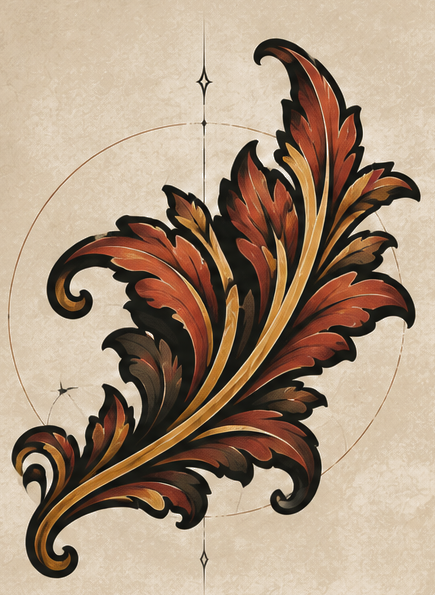
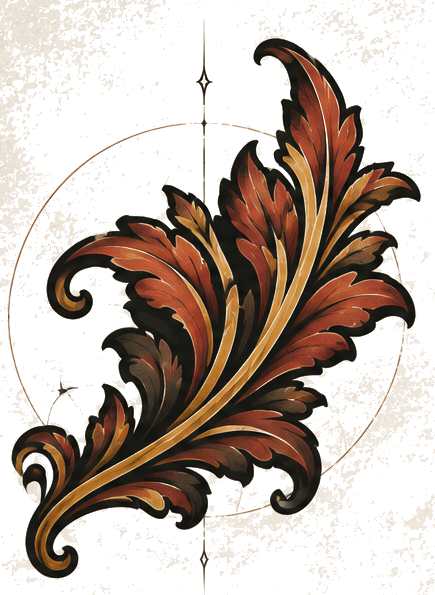
des2

diff --git a/src/index.css b/src/index.css
@@ -190,116 +190,73 @@
 }
 
 /* =========================================================
-   IDENTIDADE VISUAL TRILHA — Acanto / Carvão / Cobre / Ouro
+   IDENTIDADE TRILHA — redesign editorial / heráldico
    ========================================================= */
-@layer base {
-  :root {
-    --trilha-charcoal: #1a1a18;
-    --trilha-black: #11110f;
-    --trilha-copper: #9b3d27;
-    --trilha-copper-dark: #6f291d;
-    --trilha-gold: #d29a35;
-    --trilha-gold-soft: #e1b65f;
-    --trilha-parchment: #ead9b7;
-    --trilha-parchment-dark: #cdb78e;
-    --trilha-earth: #4b3626;
-  }
-
-  body {
-    background:
-      radial-gradient(circle at 18% 12%, rgba(210,154,53,.08), transparent 26rem),
-      radial-gradient(circle at 85% 75%, rgba(155,61,39,.07), transparent 30rem),
-      linear-gradient(135deg, #11110f 0%, #1a1713 45%, #0e0e0d 100%);
-  }
-
-  ::selection { background: rgba(210,154,53,.35); color: #fff7e8; }
+:root{
+  --trilha-ink:#1d1b17; --trilha-ink-soft:#302a23; --trilha-copper:#963c29;
+  --trilha-copper-dark:#6f2b20; --trilha-gold:#c9912f; --trilha-gold-soft:#dfb45d;
+  --trilha-paper:#efe0bd; --trilha-paper-light:#f7ecd3; --trilha-paper-deep:#ddc797;
+  --trilha-brown:#5a4430;
 }
-
-@layer utilities {
-  .bg-gradient-fantasy {
-    background:
-      radial-gradient(circle at 50% -10%, rgba(210,154,53,.11), transparent 34rem),
-      radial-gradient(circle at 100% 100%, rgba(155,61,39,.10), transparent 30rem),
-      linear-gradient(145deg, #10100f 0%, #1c1814 48%, #10100f 100%);
-  }
-
-  .bg-gradient-card {
-    background: linear-gradient(155deg, rgba(38,32,25,.94), rgba(18,17,15,.97));
-    position: relative;
-  }
-
-  .bg-gradient-card::before {
-    content: '';
-    position: absolute;
-    inset: 0;
-    pointer-events: none;
-    border-radius: inherit;
-    background: linear-gradient(115deg, rgba(234,217,183,.035), transparent 28%, rgba(210,154,53,.025));
-  }
-
-  .bg-gradient-gold {
-    background: linear-gradient(135deg, #8f351f 0%, #b44d2d 48%, #8f351f 100%);
-    border: 1px solid #d29a35;
-    color: #fff2d8;
-  }
-
-  .bg-gradient-blood,
-  .bg-blood { background: linear-gradient(135deg, #9b3d27, #6f291d); }
-  .bg-blood-dark { background-color: #6f291d; }
-
-  .text-gold { color: #d29a35; }
-  .text-gold-bright { color: #e1b65f; }
-  .text-blood { color: #c35a38; }
-  .border-gold { border-color: #d29a35; }
-  .border-gold-dim { border-color: rgba(210,154,53,.34); }
-  .border-blood { border-color: #9b3d27; }
-
-  .divider-gold {
-    height: 1px;
-    background: linear-gradient(90deg, transparent, #9b3d27 18%, #d29a35 50%, #9b3d27 82%, transparent);
-    position: relative;
-  }
-  .divider-gold::after {
-    content: '◆';
-    position: absolute;
-    left: 50%; top: 50%; transform: translate(-50%,-52%);
-    color: #d29a35; font-size: 8px; background: #1a1713; padding: 0 6px;
-  }
-
-  .shadow-gold { box-shadow: 0 0 0 1px rgba(155,61,39,.16), 0 0 22px rgba(210,154,53,.10), 0 8px 22px rgba(0,0,0,.38); }
-  .shadow-gold-lg { box-shadow: 0 0 0 1px rgba(155,61,39,.20), 0 0 42px rgba(210,154,53,.12), 0 16px 38px rgba(0,0,0,.5); }
-  .text-shadow-gold { text-shadow: 0 0 18px rgba(210,154,53,.25), 0 2px 3px rgba(0,0,0,.7); }
-
-  .trilha-brand { filter: drop-shadow(0 10px 18px rgba(0,0,0,.35)); }
-  .trilha-emblem {
-    width: 154px; height: 170px; object-fit: contain;
-    object-position: center;
-    margin-bottom: -22px;
-    filter: saturate(.95) contrast(1.08) drop-shadow(0 4px 7px rgba(0,0,0,.55));
-  }
-  .trilha-wordmark {
-    color: #e1b65f;
-    font-size: clamp(2rem, 7vw, 3rem);
-    font-weight: 700;
-    letter-spacing: .16em;
-    line-height: 1;
-    text-shadow: 0 2px 0 #6f291d, 0 5px 12px rgba(0,0,0,.55);
-  }
-  .trilha-motto {
-    margin-top: .55rem;
-    color: rgba(234,217,183,.64);
-    font-family: 'Cinzel', serif;
-    font-size: .64rem;
-    letter-spacing: .14em;
-    text-transform: uppercase;
-  }
-
-  /* Acanto sutil em painéis importantes sem sobrecarregar a interface */
-  .border-gold-dim.rounded-xl,
-  .border-gold-dim.rounded-2xl {
-    box-shadow: inset 0 0 0 1px rgba(155,61,39,.08), 0 10px 28px rgba(0,0,0,.18);
-  }
-
-  button, a { transition: border-color .2s ease, color .2s ease, background-color .2s ease, filter .2s ease, transform .2s ease; }
-  button:not(:disabled):active { transform: translateY(1px); }
+html{background:var(--trilha-paper)}
+body{background:var(--trilha-paper);color:var(--trilha-ink);min-height:100vh}
+.bg-gradient-fantasy{
+  background-color:var(--trilha-paper)!important;
+  background-image:
+    radial-gradient(circle at 12% 8%,rgba(201,145,47,.10),transparent 25%),
+    radial-gradient(circle at 88% 80%,rgba(150,60,41,.08),transparent 28%),
+    repeating-linear-gradient(0deg,rgba(75,53,32,.018) 0,rgba(75,53,32,.018) 1px,transparent 1px,transparent 4px)!important;
 }
+.bg-gradient-card,.bg-shadow\/40,.bg-shadow\/50,.bg-shadow\/60,.bg-shadow\/70,.bg-stone,.bg-stone-light{background:rgba(247,236,211,.78)!important}
+.text-parchment,.text-parchment-dim{color:var(--trilha-brown)!important}.text-parchment-dim\/60,.text-parchment-dim\/70,.text-parchment-dim\/40{color:rgba(90,68,48,.68)!important}
+.text-gold,.text-gold-bright{color:var(--trilha-copper)!important}.text-blood{color:#8a2921!important}
+.border-gold,.border-gold-dim,.border-gold-dim\/60{border-color:rgba(111,74,34,.38)!important}
+.bg-gold\/15{background:rgba(150,60,41,.12)!important}.bg-gradient-gold{background:linear-gradient(135deg,var(--trilha-copper-dark),var(--trilha-copper))!important;color:#fff4da!important}
+.shadow-gold,.shadow-gold-lg{box-shadow:0 14px 35px rgba(64,42,22,.14),0 2px 0 rgba(255,255,255,.35) inset!important}
+.divider-gold{background:linear-gradient(90deg,transparent,var(--trilha-copper),var(--trilha-gold),var(--trilha-copper),transparent)!important}
+
+/* Shared page chrome */
+.bg-gradient-fantasy > header, header.bg-shadow\/70{
+  background:linear-gradient(90deg,#181714,#29231d 48%,#181714)!important;
+  border-bottom:2px solid var(--trilha-gold)!important; color:var(--trilha-paper)!important;
+  box-shadow:0 5px 18px rgba(31,23,14,.22);
+}
+.bg-gradient-fantasy > header .text-gold-bright,header.bg-shadow\/70 .text-gold-bright{color:var(--trilha-gold-soft)!important}
+.bg-gradient-fantasy > header .text-parchment-dim,header.bg-shadow\/70 .text-parchment-dim{color:#cdbb98!important}
+main nav button,.bg-gradient-fantasy nav button{background:rgba(247,236,211,.72);border:1px solid rgba(89,60,31,.35);color:var(--trilha-copper)!important;box-shadow:0 2px 8px rgba(60,40,20,.06)}
+main nav button:hover,.bg-gradient-fantasy nav button:hover{background:#fff4dc;border-color:var(--trilha-copper)!important}
+
+/* Convert app cards into manuscript panels */
+.rounded-xl.border,.rounded-lg.border,.rounded-2xl.border{
+  border-radius:4px!important;
+  box-shadow:0 8px 20px rgba(68,45,24,.07), inset 0 0 0 1px rgba(255,255,255,.38);
+}
+.rounded-xl.border{position:relative}
+.rounded-xl.border::before{content:"";position:absolute;left:-1px;top:-1px;width:34px;height:34px;border-left:3px solid var(--trilha-copper);border-top:3px solid var(--trilha-copper);pointer-events:none}
+input,textarea,select{background:rgba(255,249,233,.72)!important;color:var(--trilha-ink)!important;border-color:rgba(91,61,32,.35)!important;border-radius:3px!important}
+input::placeholder,textarea::placeholder{color:rgba(75,56,38,.42)!important}input:focus,textarea:focus,select:focus{border-color:var(--trilha-copper)!important;box-shadow:0 0 0 2px rgba(150,60,41,.1)!important}
+button.bg-gradient-gold{border:1px solid #64261b!important;box-shadow:inset 0 1px rgba(255,230,185,.3),0 4px 10px rgba(88,38,26,.18)!important}
+
+/* LOGIN — intentionally distinct composition, like a book cover + title page */
+.trilha-login{position:relative;overflow:hidden;background:
+  radial-gradient(circle at 24% 34%,rgba(201,145,47,.14),transparent 28%),
+  linear-gradient(110deg,#ead8ae 0%,#f7ecd3 49.8%,#e7d3a7 50%,#f3e4c3 100%);color:var(--trilha-ink);display:flex;align-items:center;justify-content:center;padding:clamp(20px,4vw,56px)}
+.trilha-login::before{content:"";position:absolute;inset:18px;border:1px solid rgba(88,58,28,.32);box-shadow:inset 0 0 0 5px rgba(247,236,211,.5),inset 0 0 0 6px rgba(88,58,28,.12);pointer-events:none}
+.trilha-login::after{content:"";position:absolute;inset:0;opacity:.23;pointer-events:none;background-image:repeating-linear-gradient(0deg,rgba(75,53,32,.035) 0,rgba(75,53,32,.035) 1px,transparent 1px,transparent 4px)}
+.trilha-login-layout{position:relative;z-index:2;width:min(1080px,100%);min-height:640px;display:grid;grid-template-columns:1.05fr .95fr;border:1px solid rgba(84,54,25,.28);background:rgba(248,237,211,.62);box-shadow:0 30px 70px rgba(67,43,20,.18)}
+.trilha-brand-panel{position:relative;padding:54px 48px;display:flex;align-items:center;justify-content:center;border-right:1px solid rgba(91,60,30,.24);overflow:hidden}
+.trilha-brand-panel::after{content:"";position:absolute;inset:20px;border:1px solid rgba(150,60,41,.14);pointer-events:none}
+.trilha-brand-mark{position:absolute;left:-25px;bottom:-10px;width:78%;opacity:.96;transform:rotate(-5deg);filter:drop-shadow(0 12px 12px rgba(49,29,13,.12))}
+.trilha-brand-mark img{width:100%;height:auto;display:block}
+.trilha-brand-copy{position:relative;z-index:2;text-align:center;margin-left:25%;margin-top:-34%;text-shadow:0 1px rgba(255,255,255,.45)}
+.trilha-kicker{font-family:'Cinzel',serif;text-transform:uppercase;letter-spacing:.28em;font-size:11px;color:var(--trilha-copper);font-weight:700}
+.trilha-brand-copy h1{font-family:'Cinzel',serif;font-size:clamp(46px,6vw,76px);line-height:.95;letter-spacing:.08em;color:var(--trilha-ink);font-weight:600;margin:12px 0}
+.trilha-rule{height:18px;display:flex;align-items:center;gap:10px;color:var(--trilha-gold)}.trilha-rule::before,.trilha-rule::after{content:"";height:1px;flex:1;background:linear-gradient(90deg,transparent,var(--trilha-copper))}.trilha-rule::after{background:linear-gradient(90deg,var(--trilha-copper),transparent)}.trilha-rule span{font-size:10px}
+.trilha-expansion{font-family:'Cinzel',serif;font-size:11px;line-height:1.8;letter-spacing:.11em;color:#674a32;margin-top:9px}
+.trilha-brand-copy blockquote{font-family:Georgia,serif;font-style:italic;color:#78563a;font-size:14px;margin-top:30px}
+.trilha-access-panel{display:flex;align-items:center;padding:60px 56px;background:linear-gradient(145deg,rgba(255,249,234,.64),rgba(231,210,167,.38))}
+.trilha-access-inner{width:100%;max-width:390px;margin:auto}.trilha-access-inner h2{font-family:'Cinzel',serif;font-size:34px;color:var(--trilha-ink);font-weight:500;margin:8px 0 14px}.trilha-access-intro{color:#70573f;line-height:1.7;font-size:14px;margin-bottom:34px}
+.trilha-form label{display:block;font-family:'Cinzel',serif;color:var(--trilha-copper);font-size:11px;letter-spacing:.18em;text-transform:uppercase;margin-bottom:8px}.trilha-input-wrap{display:flex;align-items:center;background:rgba(255,250,238,.75);border:1px solid #9e7c50;border-bottom:2px solid var(--trilha-copper);padding:0 13px;transition:.2s}.trilha-input-wrap:focus-within{box-shadow:0 0 0 3px rgba(150,60,41,.09);background:#fff9ea}.trilha-input-wrap.is-error{border-color:#8a2921}.trilha-input-flourish{color:var(--trilha-gold);font-size:20px;margin-right:9px}.trilha-input-wrap input{border:0!important;box-shadow:none!important;background:transparent!important;width:100%;padding:14px 0;font-size:15px}
+.trilha-error{display:flex;gap:7px;align-items:center;color:#8a2921;font-size:13px;margin-top:10px}.trilha-primary-button{width:100%;margin-top:20px;padding:14px 18px;background:linear-gradient(135deg,#6f2b20,#9a3d29);border:1px solid #512016;color:#fff0d3;font-family:'Cinzel',serif;letter-spacing:.09em;text-transform:uppercase;font-size:13px;display:flex;justify-content:center;align-items:center;gap:12px;box-shadow:inset 0 1px rgba(255,220,165,.28),0 5px 12px rgba(76,34,22,.17);transition:.2s}.trilha-primary-button:hover:not(:disabled){transform:translateY(-1px);filter:brightness(1.08)}.trilha-primary-button:disabled{opacity:.45}.trilha-primary-button span{color:var(--trilha-gold-soft);font-size:18px}.trilha-access-footer{display:flex;align-items:center;gap:12px;margin-top:34px;color:#8a7358;font-size:10px;text-transform:uppercase;letter-spacing:.12em;text-align:center}.trilha-access-footer span{height:1px;background:rgba(121,86,49,.28);flex:1}
+.trilha-login-ornament{position:absolute;width:340px;height:340px;background:url('/trilha-acanto.png') center/contain no-repeat;opacity:.045;filter:grayscale(1)}.trilha-login-ornament-left{left:-150px;top:-100px;transform:rotate(145deg)}.trilha-login-ornament-right{right:-140px;bottom:-100px;transform:rotate(-35deg)}
+@media(max-width:800px){.trilha-login{padding:16px}.trilha-login::before{inset:8px}.trilha-login-layout{grid-template-columns:1fr;min-height:0}.trilha-brand-panel{min-height:330px;border-right:0;border-bottom:1px solid rgba(91,60,30,.24);padding:35px 25px}.trilha-brand-mark{width:65%;left:-2%;bottom:-15%}.trilha-brand-copy{margin-left:24%;margin-top:-10%}.trilha-brand-copy h1{font-size:48px}.trilha-access-panel{padding:42px 28px}.trilha-brand-copy blockquote{margin-top:18px}}

diff --git a/src/components/LoginScreen.tsx b/src/components/LoginScreen.tsx
@@ -2,136 +2,48 @@ import { useState } from 'react';
 import { Loader2, AlertCircle } from 'lucide-react';
 import { supabase, type Player } from '@/lib/supabase';
 
-type LoginScreenProps = {
-  onLogin: (player: Player) => void;
-};
+type LoginScreenProps = { onLogin: (player: Player) => void };
 
 export default function LoginScreen({ onLogin }: LoginScreenProps) {
   const [alcunha, setAlcunha] = useState('');
   const [loading, setLoading] = useState(false);
   const [error, setError] = useState<string | null>(null);
-
   const handleSubmit = async (e: React.FormEvent) => {
-    e.preventDefault();
-    const trimmed = alcunha.trim();
-    if (!trimmed) {
-      setError('Essa alcunha não é reconhecida.');
-      return;
-    }
-
-    setLoading(true);
-    setError(null);
-
-    try {
-      const { data, error: queryError } = await supabase
-        .from('players')
-        .select('*')
-        .ilike('alcunha', trimmed)
-        .maybeSingle();
-
-      if (queryError) throw queryError;
-
-      if (!data || data.status !== 'ativa') {
-        setError('Essa alcunha não é reconhecida.');
-        return;
-      }
-
-      onLogin(data as Player);
-    } catch {
-      setError('Essa alcunha não é reconhecida.');
-    } finally {
-      setLoading(false);
-    }
+    e.preventDefault(); const trimmed=alcunha.trim();
+    if(!trimmed){setError('Essa alcunha não é reconhecida.');return}
+    setLoading(true);setError(null);
+    try { const {data,error:queryError}=await supabase.from('players').select('*').ilike('alcunha',trimmed).maybeSingle(); if(queryError)throw queryError; if(!data||data.status!=='ativa'){setError('Essa alcunha não é reconhecida.');return} onLogin(data as Player); }
+    catch { setError('Essa alcunha não é reconhecida.'); }
+    finally { setLoading(false); }
   };
-
-  return (
-    <div className="min-h-screen bg-gradient-fantasy flex items-center justify-center p-4 relative overflow-hidden">
-      {/* Ambient decorative elements */}
-      <div className="absolute inset-0 pointer-events-none">
-        <div className="absolute top-0 left-1/2 -translate-x-1/2 w-[600px] h-[600px] rounded-full bg-gold/5 blur-[120px]" />
-        <div className="absolute bottom-0 right-0 w-[400px] h-[400px] rounded-full bg-blood/5 blur-[100px]" />
-      </div>
-
-      <div className="relative w-full max-w-md animate-fade-in-up">
-        {/* Símbolo oficial do TRILHA */}
-        <div className="flex flex-col items-center mb-7 trilha-brand">
-          <img src="/trilha-acanto.png" alt="Símbolo do TRILHA" className="trilha-emblem" />
-          <div className="trilha-wordmark font-display">TRILHA</div>
-          <div className="trilha-motto">A trilha é forjada a cada passo.</div>
+  return <div className="trilha-login min-h-screen">
+    <div className="trilha-login-ornament trilha-login-ornament-left" />
+    <div className="trilha-login-ornament trilha-login-ornament-right" />
+    <main className="trilha-login-layout animate-fade-in-up">
+      <section className="trilha-brand-panel">
+        <div className="trilha-brand-mark"><img src="/trilha-acanto.png" alt="Símbolo do TRILHA" /></div>
+        <div className="trilha-brand-copy">
+          <p className="trilha-kicker">Sistema de RPG</p>
+          <h1>TRILHA</h1>
+          <div className="trilha-rule"><span>◆</span></div>
+          <p className="trilha-expansion">Trajetória · Roleplay · Identidade<br/>Liberdade · História · Aventura</p>
+          <blockquote>“A trilha é forjada a cada passo.”</blockquote>
         </div>
-
-        {/* Card */}
-        <div className="bg-gradient-card border border-gold-dim rounded-2xl shadow-gold-lg backdrop-blur-sm overflow-hidden">
-          {/* Header */}
-          <div className="px-8 pt-10 pb-6 text-center">
-            <h1 className="font-display text-3xl md:text-4xl font-700 text-gold-bright text-shadow-gold mb-2">
-              Área do Jogador
-            </h1>
-            <div className="divider-gold mx-auto w-3/4 mb-5" />
-            <p className="text-parchment-dim text-sm md:text-base font-body">
-              Informe sua alcunha para continuar.
-            </p>
-          </div>
-
-          {/* Form */}
-          <form onSubmit={handleSubmit} className="px-8 pb-10 space-y-5">
-            <div className="space-y-2">
-              <label
-                htmlFor="alcunha"
-                className="font-display text-xs uppercase tracking-widest text-gold/70 font-500"
-              >
-                Alcunha
-              </label>
-              <input
-                id="alcunha"
-                type="text"
-                value={alcunha}
-                onChange={(e) => {
-                  setAlcunha(e.target.value);
-                  if (error) setError(null);
-                }}
-                disabled={loading}
-                autoFocus
-                autoComplete="off"
-                spellCheck={false}
-                className={`w-full bg-shadow/60 border ${
-                  error ? 'border-blood' : 'border-gold-dim'
-                } rounded-lg px-4 py-3 text-parchment font-body text-base placeholder:text-parchment-dim/40 focus:outline-none focus:border-gold focus:ring-1 focus:ring-gold/30 transition-all duration-200 shadow-inset-dark ${
-                  error ? 'animate-shake' : ''
-                }`}
-                placeholder="Digite sua alcunha..."
-              />
-            </div>
-
-            {error && (
-              <div className="flex items-center gap-2 text-blood text-sm animate-fade-in">
-                <AlertCircle className="w-4 h-4 flex-shrink-0" />
-                <span>{error}</span>
-              </div>
-            )}
-
-            <button
-              type="submit"
-              disabled={loading || !alcunha.trim()}
-              className="w-full bg-gradient-gold text-shadow font-display text-base font-600 tracking-wide py-3 rounded-lg shadow-gold hover:brightness-110 active:brightness-95 transition-all duration-200 disabled:opacity-40 disabled:cursor-not-allowed flex items-center justify-center gap-2 text-stone"
-            >
-              {loading ? (
-                <>
-                  <Loader2 className="w-5 h-5 animate-spin" />
-                  <span>Verificando...</span>
-                </>
-              ) : (
-                <span>Entrar</span>
-              )}
-            </button>
+      </section>
+      <section className="trilha-access-panel">
+        <div className="trilha-access-inner">
+          <p className="trilha-kicker">Entrada dos viajantes</p>
+          <h2>Área do Jogador</h2>
+          <p className="trilha-access-intro">Toda jornada começa por um nome conhecido. Informe sua alcunha para continuar.</p>
+          <form onSubmit={handleSubmit} className="trilha-form">
+            <label htmlFor="alcunha">Alcunha</label>
+            <div className={`trilha-input-wrap ${error?'is-error':''}`}><span className="trilha-input-flourish">❧</span><input id="alcunha" value={alcunha} onChange={e=>{setAlcunha(e.target.value);if(error)setError(null)}} disabled={loading} autoFocus autoComplete="off" spellCheck={false} placeholder="Digite sua alcunha..." /></div>
+            {error&&<div className="trilha-error"><AlertCircle className="w-4 h-4"/><span>{error}</span></div>}
+            <button type="submit" disabled={loading||!alcunha.trim()} className="trilha-primary-button">{loading?<><Loader2 className="w-5 h-5 animate-spin"/>Verificando...</>:<>Entrar na trilha <span>→</span></>}</button>
           </form>
+          <div className="trilha-access-footer"><span></span><p>Acesso restrito a jogadores cadastrados</p><span></span></div>
         </div>
-
-        {/* Footer */}
-        <p className="text-center text-parchment-dim/40 text-xs mt-6 font-body tracking-wide">
-          Acesso restrito a jogadores cadastrados
-        </p>
-      </div>
-    </div>
-  );
+      </section>
+    </main>
+  </div>;
 }

diff --git a/tailwind.config.js b/tailwind.config.js
@@ -9,8 +9,8 @@ export default {
       },
       colors: {
         gold: {
-          DEFAULT: '#d29a35',
-          bright: '#e1b65f',
+          DEFAULT: '#c9a84c',
+          bright: '#e0c25c',
         },
         parchment: {
           DEFAULT: '#f5e6c8',
@@ -18,13 +18,13 @@ export default {
           dim: '#c8b890',
         },
         blood: {
-          DEFAULT: '#9b3d27',
-          dark: '#6f291d',
+          DEFAULT: '#8b1a1a',
+          dark: '#6b1414',
         },
-        shadow: '#11110f',
+        shadow: '#1a1208',
         stone: {
-          DEFAULT: '#302820',
-          light: '#514335',
+          DEFAULT: '#3d3528',
+          light: '#5a4d3a',
         },
         forest: '#2d4a2d',
       },
